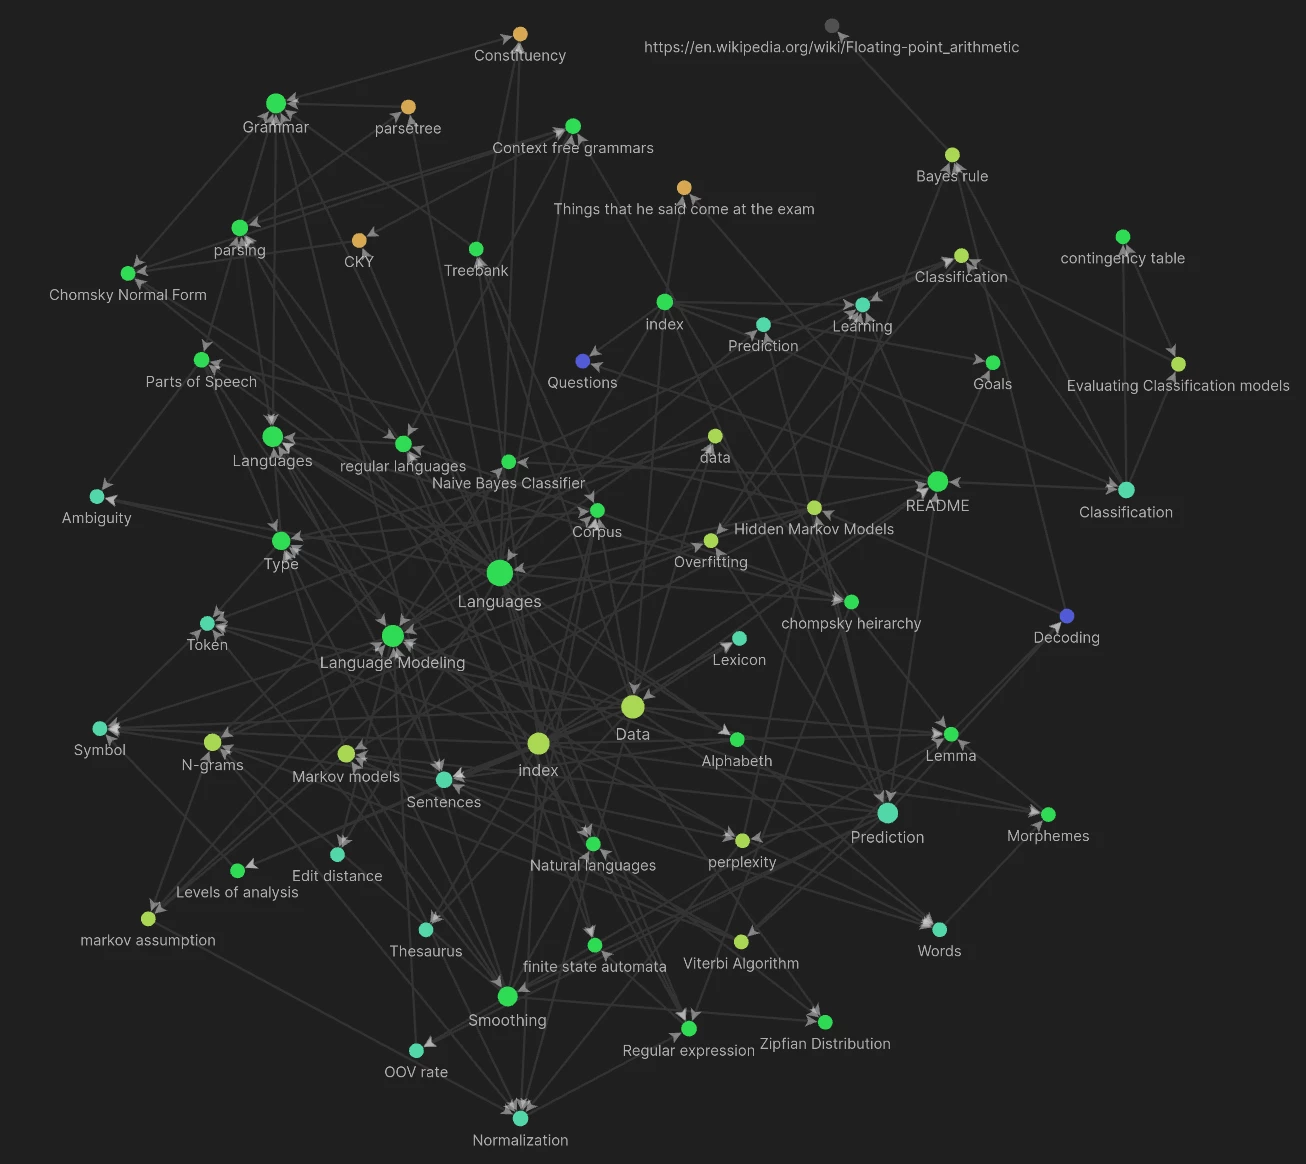
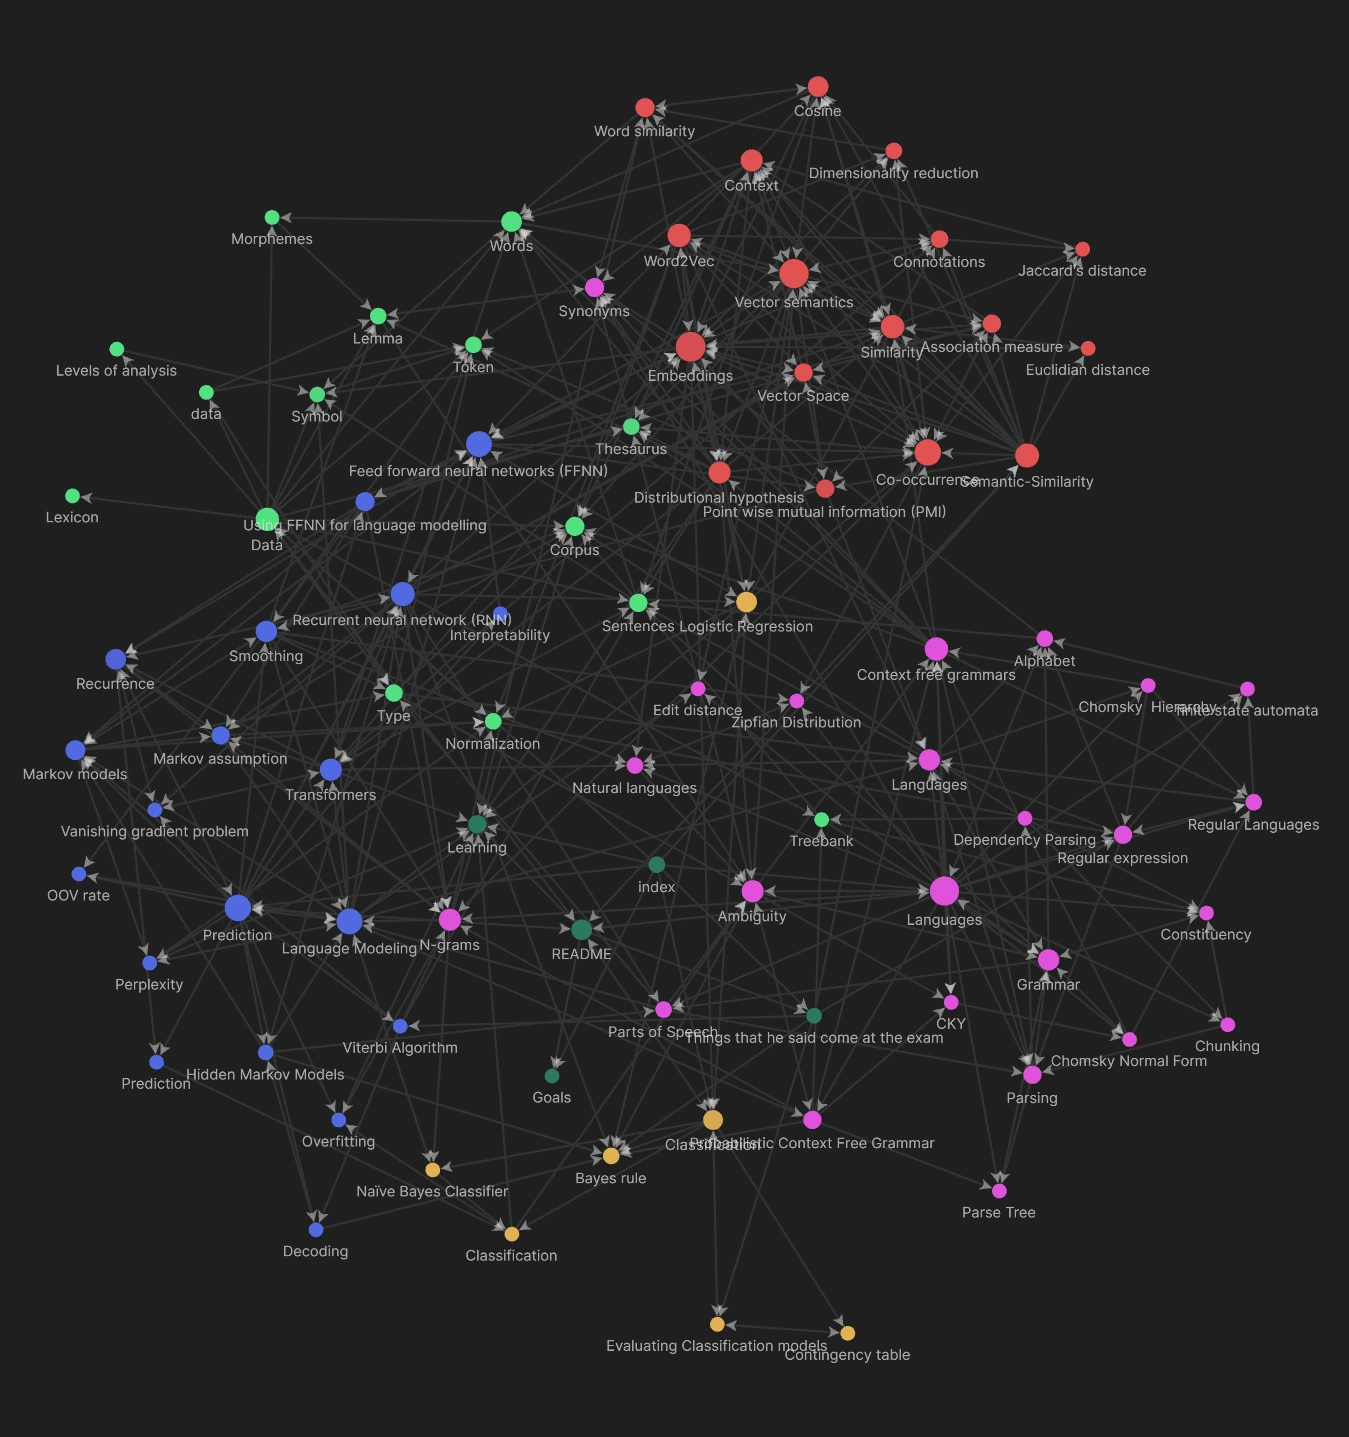
Updated the index files

diff --git a/Languages/Languages.md b/Languages/Languages.md
@@ -6,10 +6,10 @@ Let's do another definition:
 
 A language is a set of [sentences](../Data/Sentences.md) build from an [alphabet](Alphabet.md) which for some reason we call correct. This reason is that the sentences follow the grammar rules we defined for the language. 
 
-[Parsing](parsing.md) is the act of proving that some input belongs to a language (set). 
+[Parsing](Parsing.md) is the act of proving that some input belongs to a language (set). 
 
 # Types of languages 
 **[Natural languages](Natural%20languages.md)** are languages where you can also have sentences that are almost correct, and they will still be accepted mostly without any complaints. **Formal Languages** are languages where every sentence has to be from the set of correct sentences otherwise there will be complaint (by the compiler).
 
 
-**Formal Language** A formal language is a language where you **have** to follow the rules, and you can not deviate. This means that you can always use the rewrite rules. Every sentence has to be from the set of correct sentences otherwise there will be complaint (by the compiler). There are different classes of formal languages based on the rules that the grammar may use.  For instance, you have regular languages and context free languages. These types of grammars are defined by the [Chompsky heirarchy](chompsky%20heirarchy.md)
+**Formal Language** A formal language is a language where you **have** to follow the rules, and you can not deviate. This means that you can always use the rewrite rules. Every sentence has to be from the set of correct sentences otherwise there will be complaint (by the compiler). There are different classes of formal languages based on the rules that the grammar may use.  For instance, you have regular languages and context free languages. These types of grammars are defined by the [Chomsky  Hierarchy](Chomsky%20%20Hierarchy.md)

diff --git a/Languages.md b/Languages.md
@@ -1,12 +1,13 @@
 
 # Languages
 
-This is the languages topic. The notes in about this topic are:
+This is the **languages** topic. The notes in about this topic are:
 
 - [Alphabet](Languages/Alphabet.md)
 - [Ambiguity](Languages/Ambiguity.md)
-- [chompsky heirarchy](Languages/chompsky%20heirarchy.md)
+- [Chomsky  Hierarchy](Languages/Chomsky%20%20Hierarchy.md)
 - [Chomsky Normal Form](Languages/Chomsky%20Normal%20Form.md)
+- [Chunking](Languages/Chunking.md)
 - [CKY](Languages/CKY.md)
 - [Constituency](Languages/Constituency.md)
 - [Context free grammars](Languages/Context%20free%20grammars.md)
@@ -16,11 +17,13 @@ This is the languages topic. The notes in about this topic are:
 - [Languages](Languages/Languages.md)
 - [N-grams](Languages/N-grams.md)
 - [Natural languages](Languages/Natural%20languages.md)
-- [parsetree](Languages/parsetree.md)
-- [parsing](Languages/parsing.md)
+- [Parse Tree](Languages/Parse%20Tree.md)
+- [Parsing](Languages/Parsing.md)
 - [Parts of Speech](Languages/Parts%20of%20Speech.md)
+- [Probabilistic Context Free Grammar](Languages/Probabilistic%20Context%20Free%20Grammar.md)
 - [Regular expression](Languages/Regular%20expression.md)
 - [Regular Languages](Languages/Regular%20Languages.md)
+- [Synonyms](Languages/Synonyms.md)
 - [Zipfian Distribution](Languages/Zipfian%20Distribution.md)
 
 You can also go back to the [Topics](README.md)

diff --git a/Prediction.md b/Prediction.md
@@ -1,15 +1,22 @@
 # Prediction 
-This is the prediction topic. The notes in about this topic are:
+This is the **prediction** topic. The notes in about this topic are:
 
 - [Decoding](Prediction/Decoding.md)
+- [Feed forward neural networks (FFNN)](Prediction/Feed%20forward%20neural%20networks%20(FFNN).md)
 - [Hidden Markov Models](Prediction/Hidden%20Markov%20Models.md)
-- [Language Modeling](Prediction/Language%20Modeling.md)
+- [Interpretability](Prediction/Interpretability.md)
+- [Language Modelling](Prediction/Language%20Modeling.md)
 - [Markov models](Prediction/Markov%20models.md)
 - [OOV rate](Prediction/OOV%20rate.md)
 - [Overfitting](Prediction/Overfitting.md)
-- [perplexity](Prediction/perplexity.md)
+- [Perplexity](Prediction/Perplexity.md)
 - [Prediction](Prediction/Prediction.md)
+- [Recurrence](Prediction/Recurrence.md)
+- [Recurrent neural network (RNN)](Prediction/Recurrent%20neural%20network%20(RNN).md)
 - [Smoothing](Prediction/Smoothing.md)
+- [Transformers](Prediction/Transformers.md)
+- [Using FFNN for language modelling](Prediction/Using%20FFNN%20for%20language%20modelling.md)
+- [Vanishing gradient problem](Prediction/Vanishing%20gradient%20problem.md)
 - [Viterbi Algorithm](Prediction/Viterbi%20Algorithm.md)
 
 You can also go back to the [Topics](README.md)

diff --git a/README.md b/README.md
@@ -7,13 +7,13 @@ There are 4 topics:
 - [Classification](Classification.md)
 - [Prediction](Prediction.md)
 - [Languages](Languages.md)
+- [Semantic-Similarity](Semantic-Similarity.md)
 
 There are also some notes that are not in a topic. These are:
 
 - [Goals](Goals.md)
 - [Learning](Learning.md)
-- [Things that he said come at the midterm](Other/Things%20that%20he%20said%20come%20at%20the%20midterm.md)
-- [Questions](Other/Questions.md)
+- [Things that he said come at the exam](Other/Things%20that%20he%20said%20come%20at%20the%20exam.md)
 
 ![network](network.webp)
 
@@ -28,9 +28,9 @@ If you appreciate my summaries and you want to thank me then you can support me
 here: 
 
 - [PayPal](https://www.paypal.me/quintencabo)
-- [Tikkie](https://tikkie.me/pay/tvc88f91200qmq9fujar)
+- [Tikkie](https://tikkie.me/pay/c3cp0dcfd8mautn8ud79)
 
 
-![Tikkie qr code valid till april 16](tikkie.webp)
+![Tikkie qr code valid till around 18 june](tikki.webp)
 
 >Every model is wrong, but some models are usefull.

diff --git a/Languages/Regular expression.md b/Languages/Regular expression.md
@@ -15,7 +15,7 @@ The grammar for this language looks like this:
 Regular languages can be expressions in regular expressions which can be expressed in [finite state automata](finite%20state%20automata.md). This is great because this makes regular expressions really fast to parse.
 
 ## Symbols
-You can parse symbols at a position by just including them in the regular expression /hello/ [parses](parsing.md) the word hello. But what if we want to parse multiple words. Then we have to define a regular expression where one position of the sentence can have multiple symbols. This is done with symbol ranges.
+You can parse symbols at a position by just including them in the regular expression /hello/ [parses](Parsing.md) the word hello. But what if we want to parse multiple words. Then we have to define a regular expression where one position of the sentence can have multiple symbols. This is done with symbol ranges.
 
 ### Symbol Ranges
 

diff --git a/index.md b/index.md
@@ -7,13 +7,13 @@ There are 4 topics:
 - [Classification](Classification.md)
 - [Prediction](Prediction.md)
 - [Languages](Languages.md)
+- [Semantic-Similarity](Semantic-Similarity.md)
 
 There are also some notes that are not in a topic. These are:
 
 - [Goals](Goals.md)
 - [Learning](Learning.md)
-- [Things that he said come at the midterm](Other/Things%20that%20he%20said%20come%20at%20the%20midterm.md)
-- [Questions](Other/Questions.md)
+- [Things that he said come at the exam](Other/Things%20that%20he%20said%20come%20at%20the%20exam.md)
 
 ![network](network.webp)
 
@@ -31,6 +31,8 @@ here:
 - [Tikki€](https://tikkie.me/pay/tvc88f91200qmq9fujar)
 
 
-![Tikkie qr code valid till april 4](tikkies.webp)
+
+![Tikkie qr code valid till around 18 june](tikki.webp)
+
 
 >Every model is wrong, but some models are useful.

diff --git a/Languages/parsing.md b/Languages/parsing.md
@@ -8,7 +8,7 @@ Given a grammar G and a string s. Does s belong to L(G). Or s∈L(G)
 
 L is a function that returns the [languages](Languages/Languages.md) from a [grammar](Grammar.md).
 
-If the parser thinks this is the case we also want a proof or evidence that this is the case. This usually takes the form of a [parse tree](parsetree.md). So this is a tree to go from the grammar to s! But it can also make a [Dependency graph](Dependency%20Parsing.md).
+If the parser thinks this is the case we also want a proof or evidence that this is the case. This usually takes the form of a [parse tree](Parse%20Tree.md). So this is a tree to go from the grammar to s! But it can also make a [Dependency graph](Dependency%20Parsing.md).
 
 ![Pasted image 20220314184733](Pasted%20image%2020220314184733.webp)
 

diff --git a/Prediction/Language Modeling.md b/Prediction/Language Modeling.md
@@ -37,7 +37,7 @@ With extrinsic evaluation you evaluate how much impact a model has on a downstre
  
  So how do we do intrinsic evaluation? You feed the model new data and check how well it predicts each token in the sentences and how well it scores sentence probabilities. 
  
- A good language model will **fit the new data well**. This means it will usually predict the correct word type or assign a high probability to the sequences in the new data. This type of evaluation is called [perplexity](perplexity.md). 
+ A good language model will **fit the new data well**. This means it will usually predict the correct word type or assign a high probability to the sequences in the new data. This type of evaluation is called [Perplexity](Perplexity.md). 
  
  ### Bidirectional models 
  

diff --git a/Prediction/Markov models.md b/Prediction/Markov models.md
@@ -32,7 +32,7 @@ Looking at this table really makes it more concrete. The idea is that the sum of
 ## Fine tuning
 How do you decide on the n-gram size? The [lambda's](Smoothing.md)? Which [discounting](Smoothing.md) method you will use? What k will you use if you use Laplace etc.
 
-We can do this like any other machine learning problem. In this case the loss/cost/error function is [perplexity](perplexity.md) and we want to minimize it. Try to minimize the perplexity of the dev set by tuning the hyperparameters.  
+We can do this like any other machine learning problem. In this case the loss/cost/error function is [Perplexity](Perplexity.md) and we want to minimize it. Try to minimize the perplexity of the dev set by tuning the hyperparameters.  
 
 
 ## Trade of

diff --git a/Languages/Context free grammars.md b/Languages/Context free grammars.md
@@ -8,7 +8,7 @@ The left-hand side can only be ONE non-terminal. The right-hand side can be any 
 
 Context free grammars are much more expressive than [Regular Languages](Regular%20Languages.md).
 
-You can [parse](parsing.md) context free grammars with parser combinators, parser generators or the [CKY](CKY.md) algorithm which might just be a parser combinator.  
+You can [parse](Parsing.md) context free grammars with parser combinators, parser generators or the [CKY](CKY.md) algorithm which might just be a parser combinator.  
 
 ## Context 
 The context are the parts of a discourse that surround a word or passage and can throw light on its meaning. So the [words](../Data/Words.md) or [tokens](../Data/Token.md) around the words or tokens you are analysing. 

diff --git a/Languages/Parts of Speech.md b/Languages/Parts of Speech.md
@@ -24,7 +24,7 @@ The process of **automatically** assigning PoS tags to words in a corpus. This p
 
 First of all why not just have a list of words and their PoS tags? We could even use dictionaries for this. We can't do this because of [ambiguity](Ambiguity.md). PoS tagging aims to resolve this ambiguity.  
 
-PoS tagging is useful for [parsing](parsing.md), named entity recognition and coreference resolution and more!
+PoS tagging is useful for [Parsing](Parsing.md), named entity recognition and coreference resolution and more!
 
 ## Baseline
 Most of the [types](../Data/Type.md) in a corpus are nouns. The baseline is to assume everything is a noun. This will get you an accuracy of around 60% on types, but much lower on tokens.  

diff --git a/Data.md b/Data.md
@@ -1,5 +1,5 @@
 # Data
-This is the data topic. The notes in about this topic are:
+This is the **data** topic. The notes in about this topic are:
 
 - [Corpus](Data/Corpus.md)
 - [data](Data/Data.md)
@@ -8,12 +8,12 @@ This is the data topic. The notes in about this topic are:
 - [Lexicon](Data/Lexicon.md)
 - [Morphemes](Data/Morphemes.md)
 - [Normalization](Data/Normalization.md)
+- [Sentences](Data/Sentences.md)
+- [Symbol](Data/Symbol.md)
 - [Thesaurus](Data/Thesaurus.md)
 - [Token](Data/Token.md)
 - [Treebank](Data/Treebank.md)
 - [Type](Data/Type.md)
 - [Words](Data/Words.md)
-- [Symbol](Data/Symbol.md)
-- [Sentences](Data/Sentences.md)
 
 You can also go back to the [Topics](README.md).
